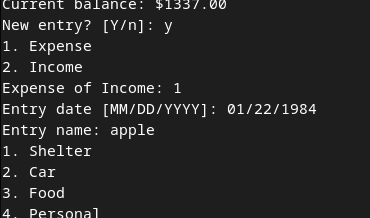
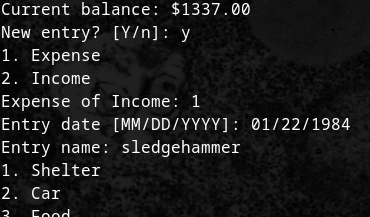
Added imagery and adjusted colors, --accent and --dark-accent

diff --git a/assets/css/main.css b/assets/css/main.css
@@ -7,6 +7,11 @@
 	Free for personal and commercial use under the CCA 3.0 license (html5up.net/license)
 */
 
+:root {
+	--accent: #fcd303;
+	--dark-accent: #8a7300;
+  }
+
 html, body, div, span, applet, object,
 iframe, h1, h2, h3, h4, h5, h6, p, blockquote,
 pre, a, abbr, acronym, address, big, cite,
@@ -83,7 +88,7 @@ input, select, textarea {
 	}
 
 	body {
-		background: #fff;
+		background: #222;
 	}
 
 		body.is-preload *, body.is-preload *:before, body.is-preload *:after {
@@ -111,13 +116,13 @@ input, select, textarea {
 		-ms-transition: color 0.2s ease-in-out, border-color 0.2s ease-in-out;
 		transition: color 0.2s ease-in-out, border-color 0.2s ease-in-out;
 		border-bottom: dotted 1px;
-		color: #49bf9d;
+		color: var(--dark-accent)
 		text-decoration: none;
 	}
 
 		a:hover {
 			border-bottom-color: transparent;
-			color: #49bf9d !important;
+			color: var(--dark-accent) !important;
 			text-decoration: none;
 		}
 
@@ -1841,7 +1846,7 @@ input, select, textarea {
 		input[type="email"]:focus,
 		select:focus,
 		textarea:focus {
-			border-color: #49bf9d;
+			border-color: var(--dark-accent);
 		}
 
 	select {
@@ -1946,7 +1951,7 @@ input, select, textarea {
 
 		input[type="checkbox"]:focus + label:before,
 		input[type="radio"]:focus + label:before {
-			border-color: #49bf9d;
+			border-color: var(--dark-accent);
 		}
 
 	input[type="checkbox"] + label:before {
@@ -2071,7 +2076,8 @@ input, select, textarea {
 				-ms-transition: opacity 0.2s ease-in-out;
 				transition: opacity 0.2s ease-in-out;
 				border-radius: 0.35em;
-				border: solid 3px rgba(255, 255, 255, 0.5);
+				box-shadow: 0 0 10px 0 #ddd;
+				/* border: solid 3px rgba(255, 255, 255, 0.5); */
 				color: #fff;
 				content: 'View';
 				display: inline-block;
@@ -2464,17 +2470,17 @@ input, select, textarea {
 		input[type="reset"]:hover,
 		input[type="button"]:hover,
 		.button:hover {
-			border-color: #49bf9d;
-			color: #49bf9d !important;
+			border-color: var(--dark-accent);
+			color: var(--dark-accent) !important;
 		}
 
 		input[type="submit"]:active,
 		input[type="reset"]:active,
 		input[type="button"]:active,
 		.button:active {
-			background-color: rgba(73, 191, 157, 0.1);
-			border-color: #49bf9d;
-			color: #49bf9d !important;
+			background-color: #2e2b1b;
+			border-color: var(--dark-accent);
+			color: var(--dark-accent) !important;
 		}
 
 		input[type="submit"].icon,
@@ -2517,8 +2523,8 @@ input, select, textarea {
 		input[type="reset"].primary,
 		input[type="button"].primary,
 		.button.primary {
-			background-color: #49bf9d;
-			border-color: #49bf9d;
+			background-color: var(--dark-accent);
+			border-color: var(--dark-accent);
 			color: #ffffff !important;
 		}
 
@@ -2526,16 +2532,16 @@ input, select, textarea {
 			input[type="reset"].primary:hover,
 			input[type="button"].primary:hover,
 			.button.primary:hover {
-				background-color: #5cc6a7;
-				border-color: #5cc6a7;
+				background-color: #b5a13f;
+				border-color: #b5a13f;
 			}
 
 			input[type="submit"].primary:active,
 			input[type="reset"].primary:active,
 			input[type="button"].primary:active,
 			.button.primary:active {
-				background-color: #3eb08f;
-				border-color: #3eb08f;
+				background-color: var(--accent);
+				border-color: var(--accent);
 			}
 
 		input[type="submit"].disabled, input[type="submit"]:disabled,
@@ -2572,6 +2578,10 @@ input, select, textarea {
 			margin: 0;
 		}
 
+		.work-item a {
+			box-shadow: 0 0 20px 0px var(--accent);
+		}
+
 /* Header */
 
 	#header {
@@ -2591,9 +2601,9 @@ input, select, textarea {
 		-webkit-justify-content: space-between;
 		-ms-justify-content: space-between;
 		justify-content: space-between;
-		background-color: #1f1815;
+		background-color: #070707;
 		background-attachment: scroll,								scroll;
-		background-image: url("images/overlay.png"), url("../../images/bg.jpg");
+		background-image: url("images/overlay.png"), url("../../images/Spore4.png ");
 		background-position: top left,							top left;
 		background-repeat: repeat,								no-repeat;
 		background-size: auto,								150%;
@@ -2698,7 +2708,7 @@ input, select, textarea {
 				border-top: 0;
 				margin-top: 0;
 				padding-top: 0;
-			}
+			} 
 
 /* Poptrox */
 
@@ -3077,8 +3087,8 @@ input, select, textarea {
 
 			#footer {
 				background-attachment: scroll;
-				background-color: #1f1815;
-				background-image: url("images/overlay.png"), url("../../images/bg.jpg");
+				background-color: #070707;
+				background-image: url("images/overlay.png"), url("../../images/Spore4.png");
 				background-position: top left,						bottom center;
 				background-repeat: repeat,							no-repeat;
 				background-size: auto,							cover;

diff --git a/index.html b/index.html
@@ -18,8 +18,8 @@
 				<div class="inner">
 					<a href="#" class="image avatar"><img src="images/avatar.jpg" alt="" /></a>
 					<h1><strong>Cameron Kochan</strong><br />
-					A basic portfolio to convey<br />
-					what I am learning and able to do.</a></h1>
+					A basic portfolio to convey
+					what I am learning and able to do.</h1>
 				</div>
 			</header>
 
@@ -43,7 +43,7 @@
 						<h2>Recent Work</h2>
 						<div class="row">
 							<article class="col-6 col-12-xsmall work-item">
-								<a href="https://github.com/cskochan/expensetracker" class="image fit thumb"><img src="images/thumbs/expenstraceker.png" alt="" /></a>
+								<a href="https://github.com/cskochan/expensetracker" class="image fit thumb"><img src="images/thumbs/expensetracker.png" alt="Image of commandline with program in use." /></a>
 								<h3>Expense Tracker</h3>
 								<p>A simple expense tracker to utterly slay the beast of financial chaos, uncertainty and woe.</p>
 							</article>
